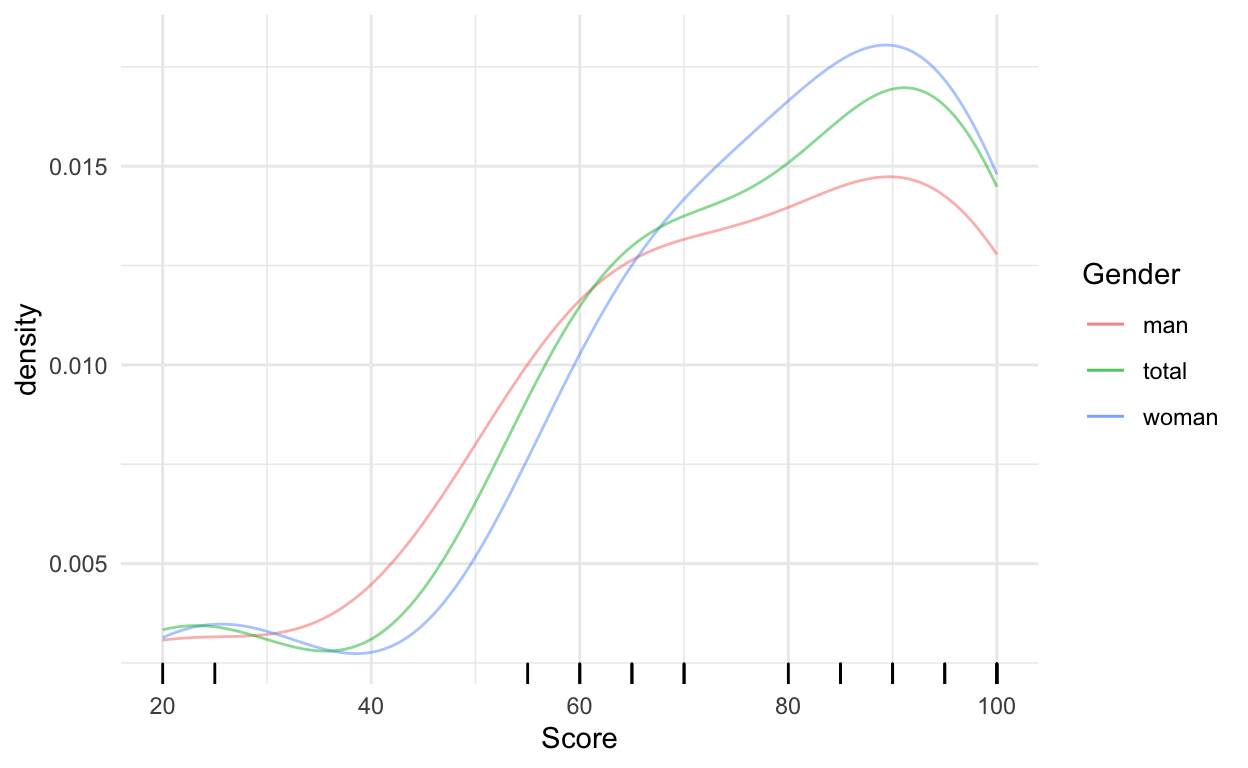
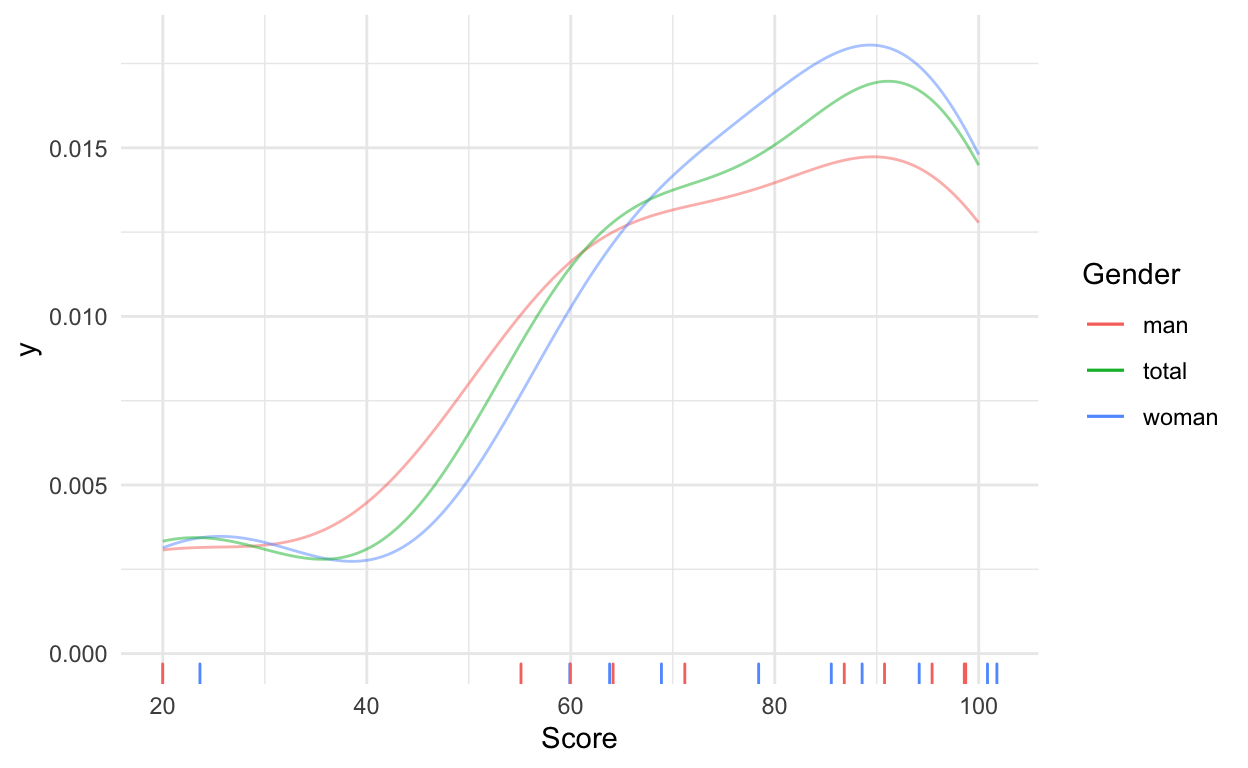
Colored the rug plot.

diff --git a/_site/posts/2020-06-13-mythbusters-navigation/index.html b/_site/posts/2020-06-13-mythbusters-navigation/index.html
@@ -1325,7 +1325,7 @@ document.addEventListener('DOMContentLoaded', function() {
 <div class="d-article">
 <p>In Mythbusters 12x5, they test several myths about activities that allegedly either men or women excel at. For one of the tests they run, they actually give all the raw data on screen.</p>
 <p>The setup is this: the myth is that men excel at navigation, and they test this by inviting 10 men and 10 women to read a map and navigate between two places on the San Francisco peninsula. As they navigate, they are scored by two mythbusters on how smooth the navigation went, how many wrong turns and stops were taken, how much longer than necessary the route was etc. In the end a score between 0 and 100 was issued for each test subject.</p>
-<p>I wrote down the raw data from screen, and have made it available here: <a href="https://raw.githubusercontent.com/michiexile/mythbusters-data/master/S12/E05/navigating.csv" class="uri">https://raw.githubusercontent.com/michiexile/mythbusters-data/master/S12/E05/navigating.csv</a></p>
+<p>I wrote down the raw data from screen, and have made it available here: <a href="https://raw.githubusercontent.com/michiexile/mythbusters-data/master/S12/E05/navigating.csv" class="uri">https://raw.githubusercontent.com/michiexile/mythbusters-data/master/S12/E05/navigating.csv</a> As I keep on binging, I will try to extract more data from the episodes. I plan on putting it all up at <a href="https://github.com/michiexile/mythbusters-data" class="uri">https://github.com/michiexile/mythbusters-data</a></p>
 <p>So let’s have a look at the data, shall we?</p>
 <div class="layout-chunk" data-layout="l-body">
 <table>

diff --git a/_posts/2020-06-13-mythbusters-navigation/mythbusters-navigation.html b/_posts/2020-06-13-mythbusters-navigation/mythbusters-navigation.html
@@ -975,7 +975,7 @@
 <div class="d-article">
 <p>In Mythbusters 12x5, they test several myths about activities that allegedly either men or women excel at. For one of the tests they run, they actually give all the raw data on screen.</p>
 <p>The setup is this: the myth is that men excel at navigation, and they test this by inviting 10 men and 10 women to read a map and navigate between two places on the San Francisco peninsula. As they navigate, they are scored by two mythbusters on how smooth the navigation went, how many wrong turns and stops were taken, how much longer than necessary the route was etc. In the end a score between 0 and 100 was issued for each test subject.</p>
-<p>I wrote down the raw data from screen, and have made it available here: <a href="https://raw.githubusercontent.com/michiexile/mythbusters-data/master/S12/E05/navigating.csv" class="uri">https://raw.githubusercontent.com/michiexile/mythbusters-data/master/S12/E05/navigating.csv</a></p>
+<p>I wrote down the raw data from screen, and have made it available here: <a href="https://raw.githubusercontent.com/michiexile/mythbusters-data/master/S12/E05/navigating.csv" class="uri">https://raw.githubusercontent.com/michiexile/mythbusters-data/master/S12/E05/navigating.csv</a> As I keep on binging, I will try to extract more data from the episodes. I plan on putting it all up at <a href="https://github.com/michiexile/mythbusters-data" class="uri">https://github.com/michiexile/mythbusters-data</a></p>
 <p>So let’s have a look at the data, shall we?</p>
 <div class="layout-chunk" data-layout="l-body">
 <table>
